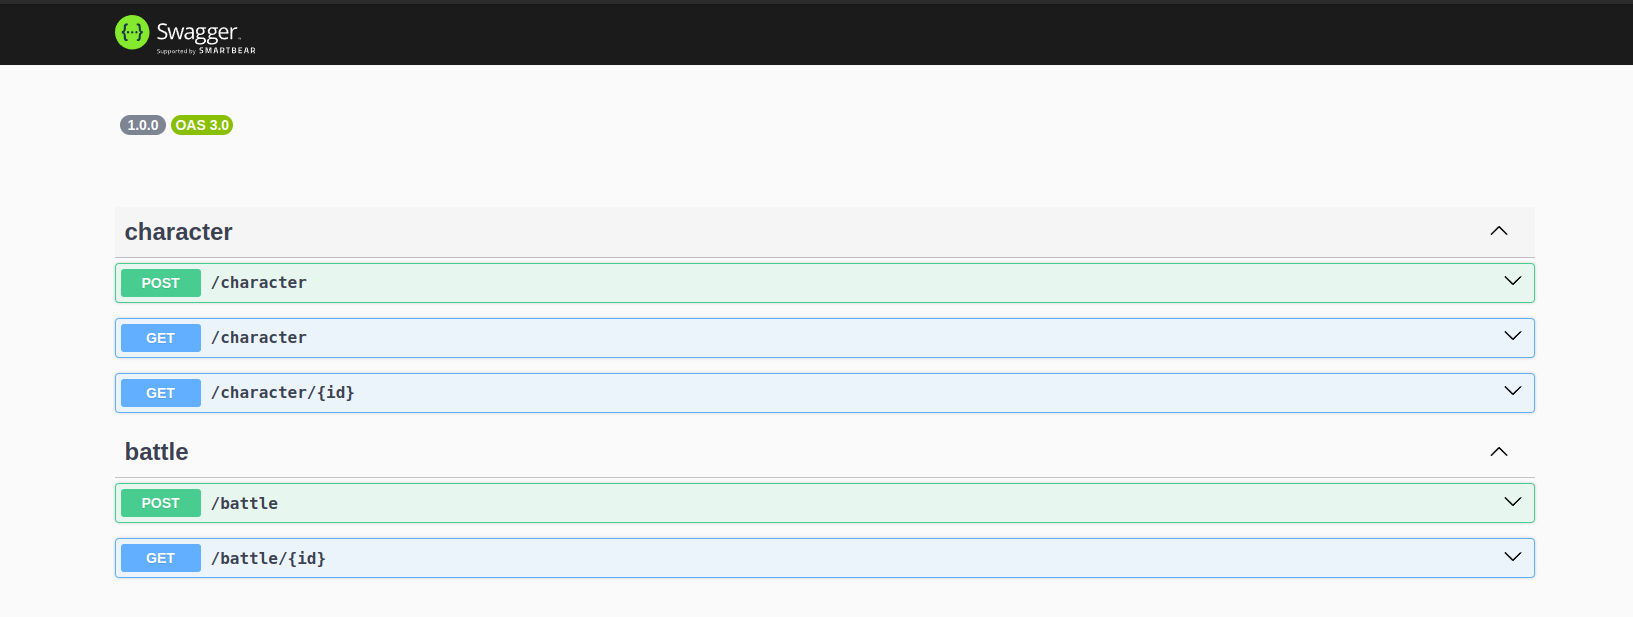
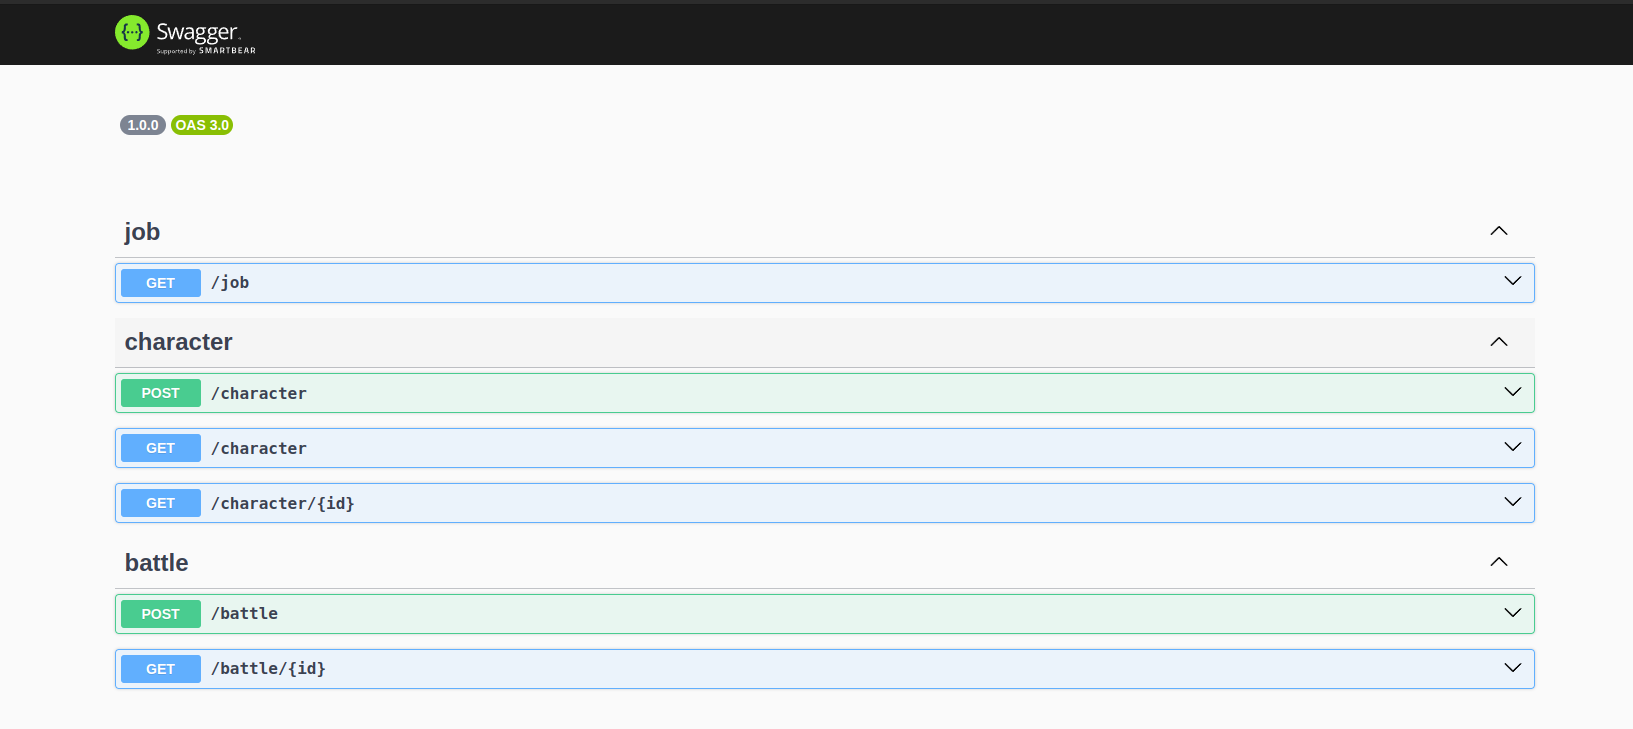
feat(docs): updated screenshots

Changed region(s): [[0.0625, 0.3079, 0.9369, 0.9546], [0.0, 0.0308, 1.0, 0.1232], [0.0625, 0.154, 0.1562, 0.2156]]

diff --git a/README.md b/README.md
@@ -25,9 +25,8 @@ It utilizes:
   - [Docker](https://www.docker.com/) for stable environment
   - [Task](https://taskfile.dev/) for easier command line usage
 
-![App Screencast](./docs/swagger.png)
-
-@TODO aktualizovat tento ^ obrazok
+![Swagger screenshot](./docs/swagger.png)
+![Mongo Express screenshot](./docs/mongo-express.png)
 
 ## Requirements
 
